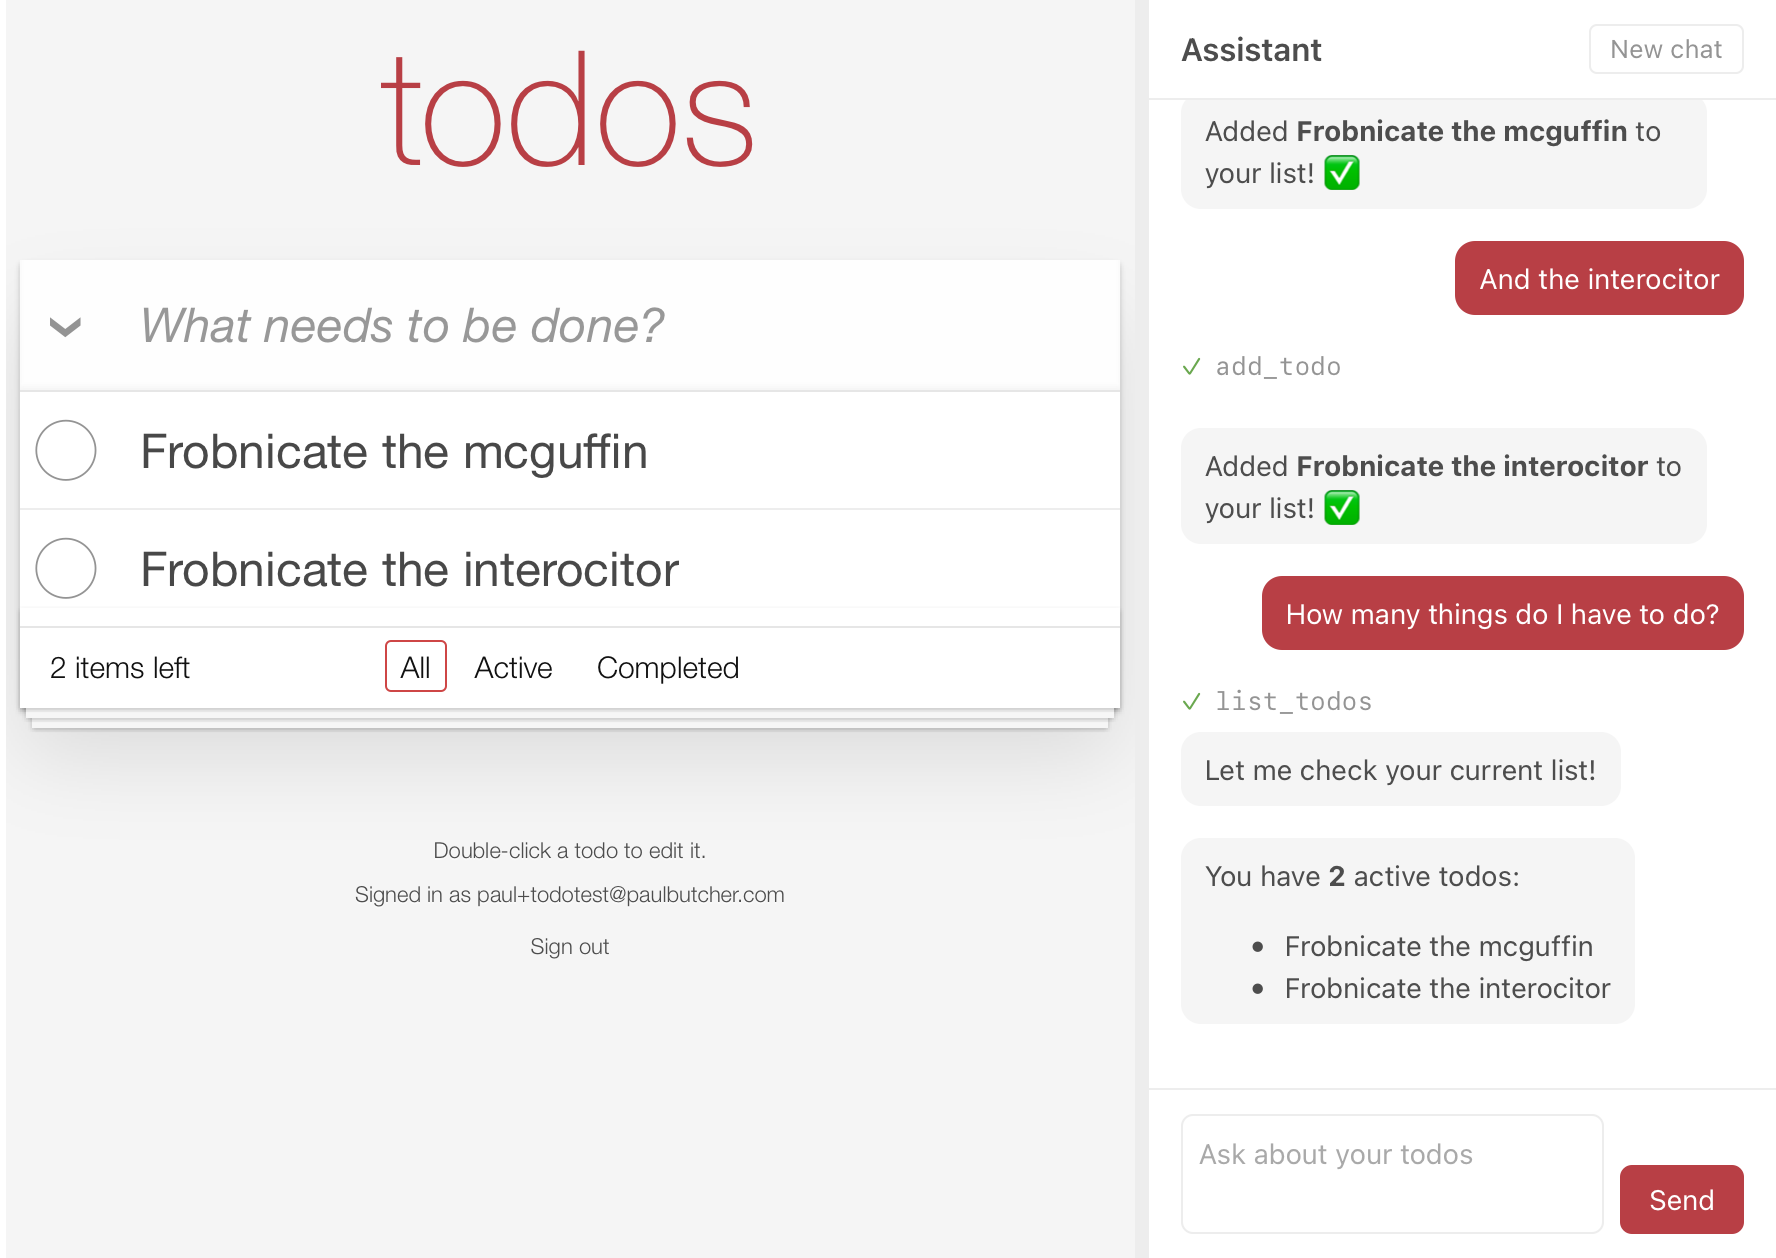
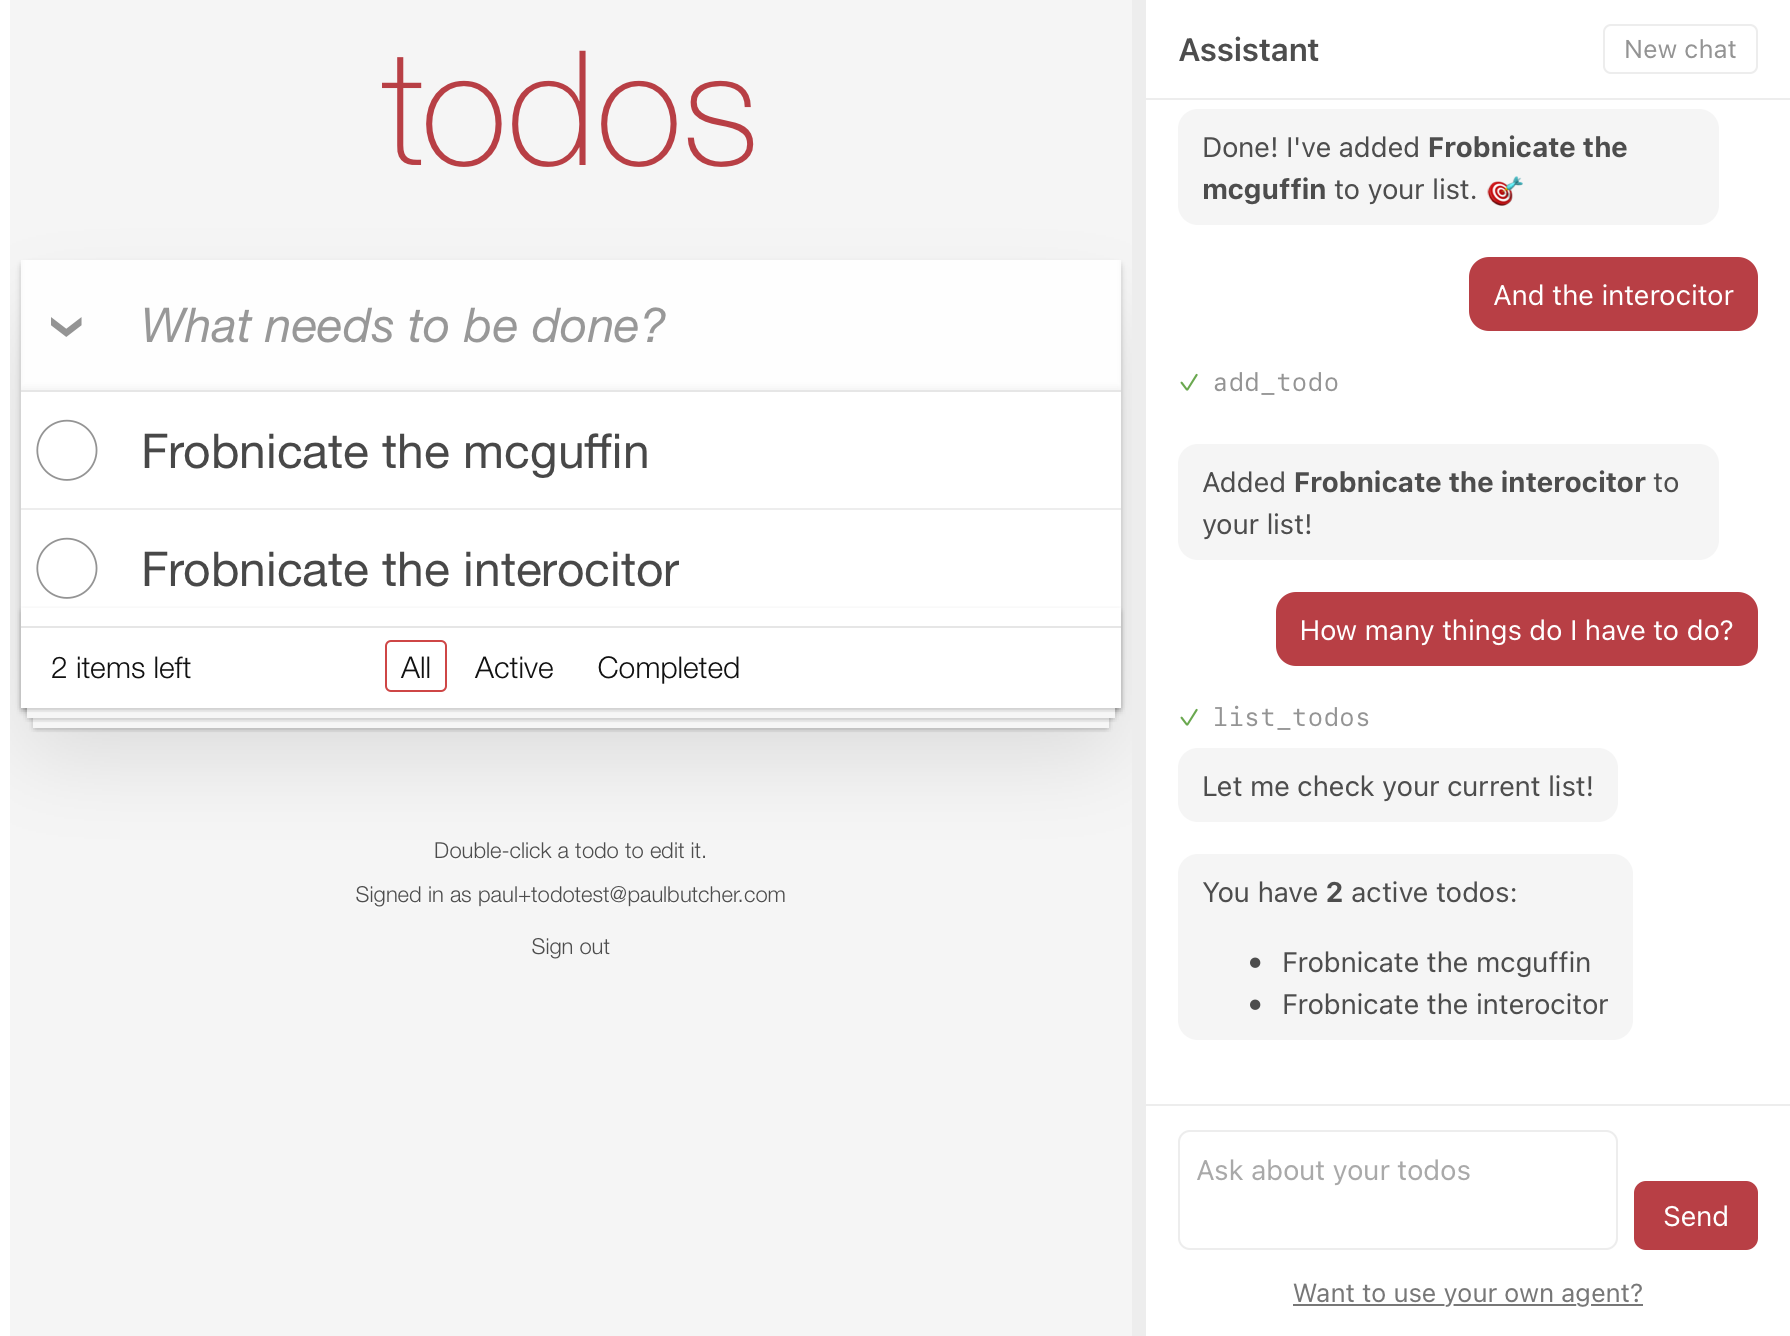
Update README

diff --git a/README.md b/README.md
@@ -1,8 +1,8 @@
 # TodoMVC Max
 
 [TodoMVC](https://todomvc.com) in Lean 4, plus everything a production application needs around it:
-passwordless sign-in, SQL migrations, telemetry, an LLM assistant panel via Bedrock, and IaC
-deployment to AWS Lambda.
+passwordless sign-in, SQL migrations, telemetry, an LLM assistant panel via Bedrock, an MCP
+endpoint your own agent can use, and IaC deployment to AWS Lambda.
 
 The UI is HTMX plus a very little JavaScript.
 
@@ -28,6 +28,8 @@ make some very strong guarantees, including:
 - **Markdown is formally verified.** lean-markdown is total, never panicking or looping on any
   input including adversarial input. `renderHtmlSafe` is proved to emit well-formed HTML in
   which no string from the document can produce markup or break out of an attribute.
+- **What an agent was granted bounds what it can reach.** A token that was not granted
+  `todos:write` reaches no tool that changes anything (`nothing_mutates_without_write`).
 - **Encodings are proved to round-trip.** What is written to a chat row is what is read
   back from it (`toMsg_ofMsg`), which matters because the conversation is replayed to the model in
   full on every turn. Underneath, leancrypto proves `decode (encode bytes) = some bytes` for hex,
@@ -43,7 +45,8 @@ Lean, `Std.Http.Server`, and:
 | [lean-html](https://github.com/paulbutcher/lean-html) · [lean-htmx](https://github.com/paulbutcher/lean-htmx) | typed markup and typed `hx-*` attributes |
 | [lean-routing](https://github.com/paulbutcher/lean-routing) | typed router and route table |
 | [lean-middleware](https://github.com/paulbutcher/lean-middleware) | sessions, sealed cookie store, anti-forgery, static files, request tracing |
-| [lean-authentication](https://github.com/paulbutcher/lean-authentication) | magic links, sessions, rate limiting, bounce handling, consent |
+| [lean-authentication](https://github.com/paulbutcher/lean-authentication) | magic links, sessions, rate limiting, bounce handling, consent, and an OAuth 2.1 authorisation server |
+| [lean-mcp](https://github.com/paulbutcher/lean-mcp) | an MCP server over Streamable HTTP |
 | [leanpostgres](https://github.com/paulbutcher/leanpostgres) · [leanmigrate](https://github.com/paulbutcher/leanmigrate) | `libpq` bindings with a connection pool; migrations as plain SQL files |
 | [lean-telemetry](https://github.com/paulbutcher/lean-telemetry) | OpenTelemetry traces and logs |
 | [lean-llmclient](https://github.com/paulbutcher/lean-llmclient) · [lean-markdown](https://github.com/paulbutcher/lean-markdown) | provider-agnostic chat with tool calling; GFM for rendering replies |
